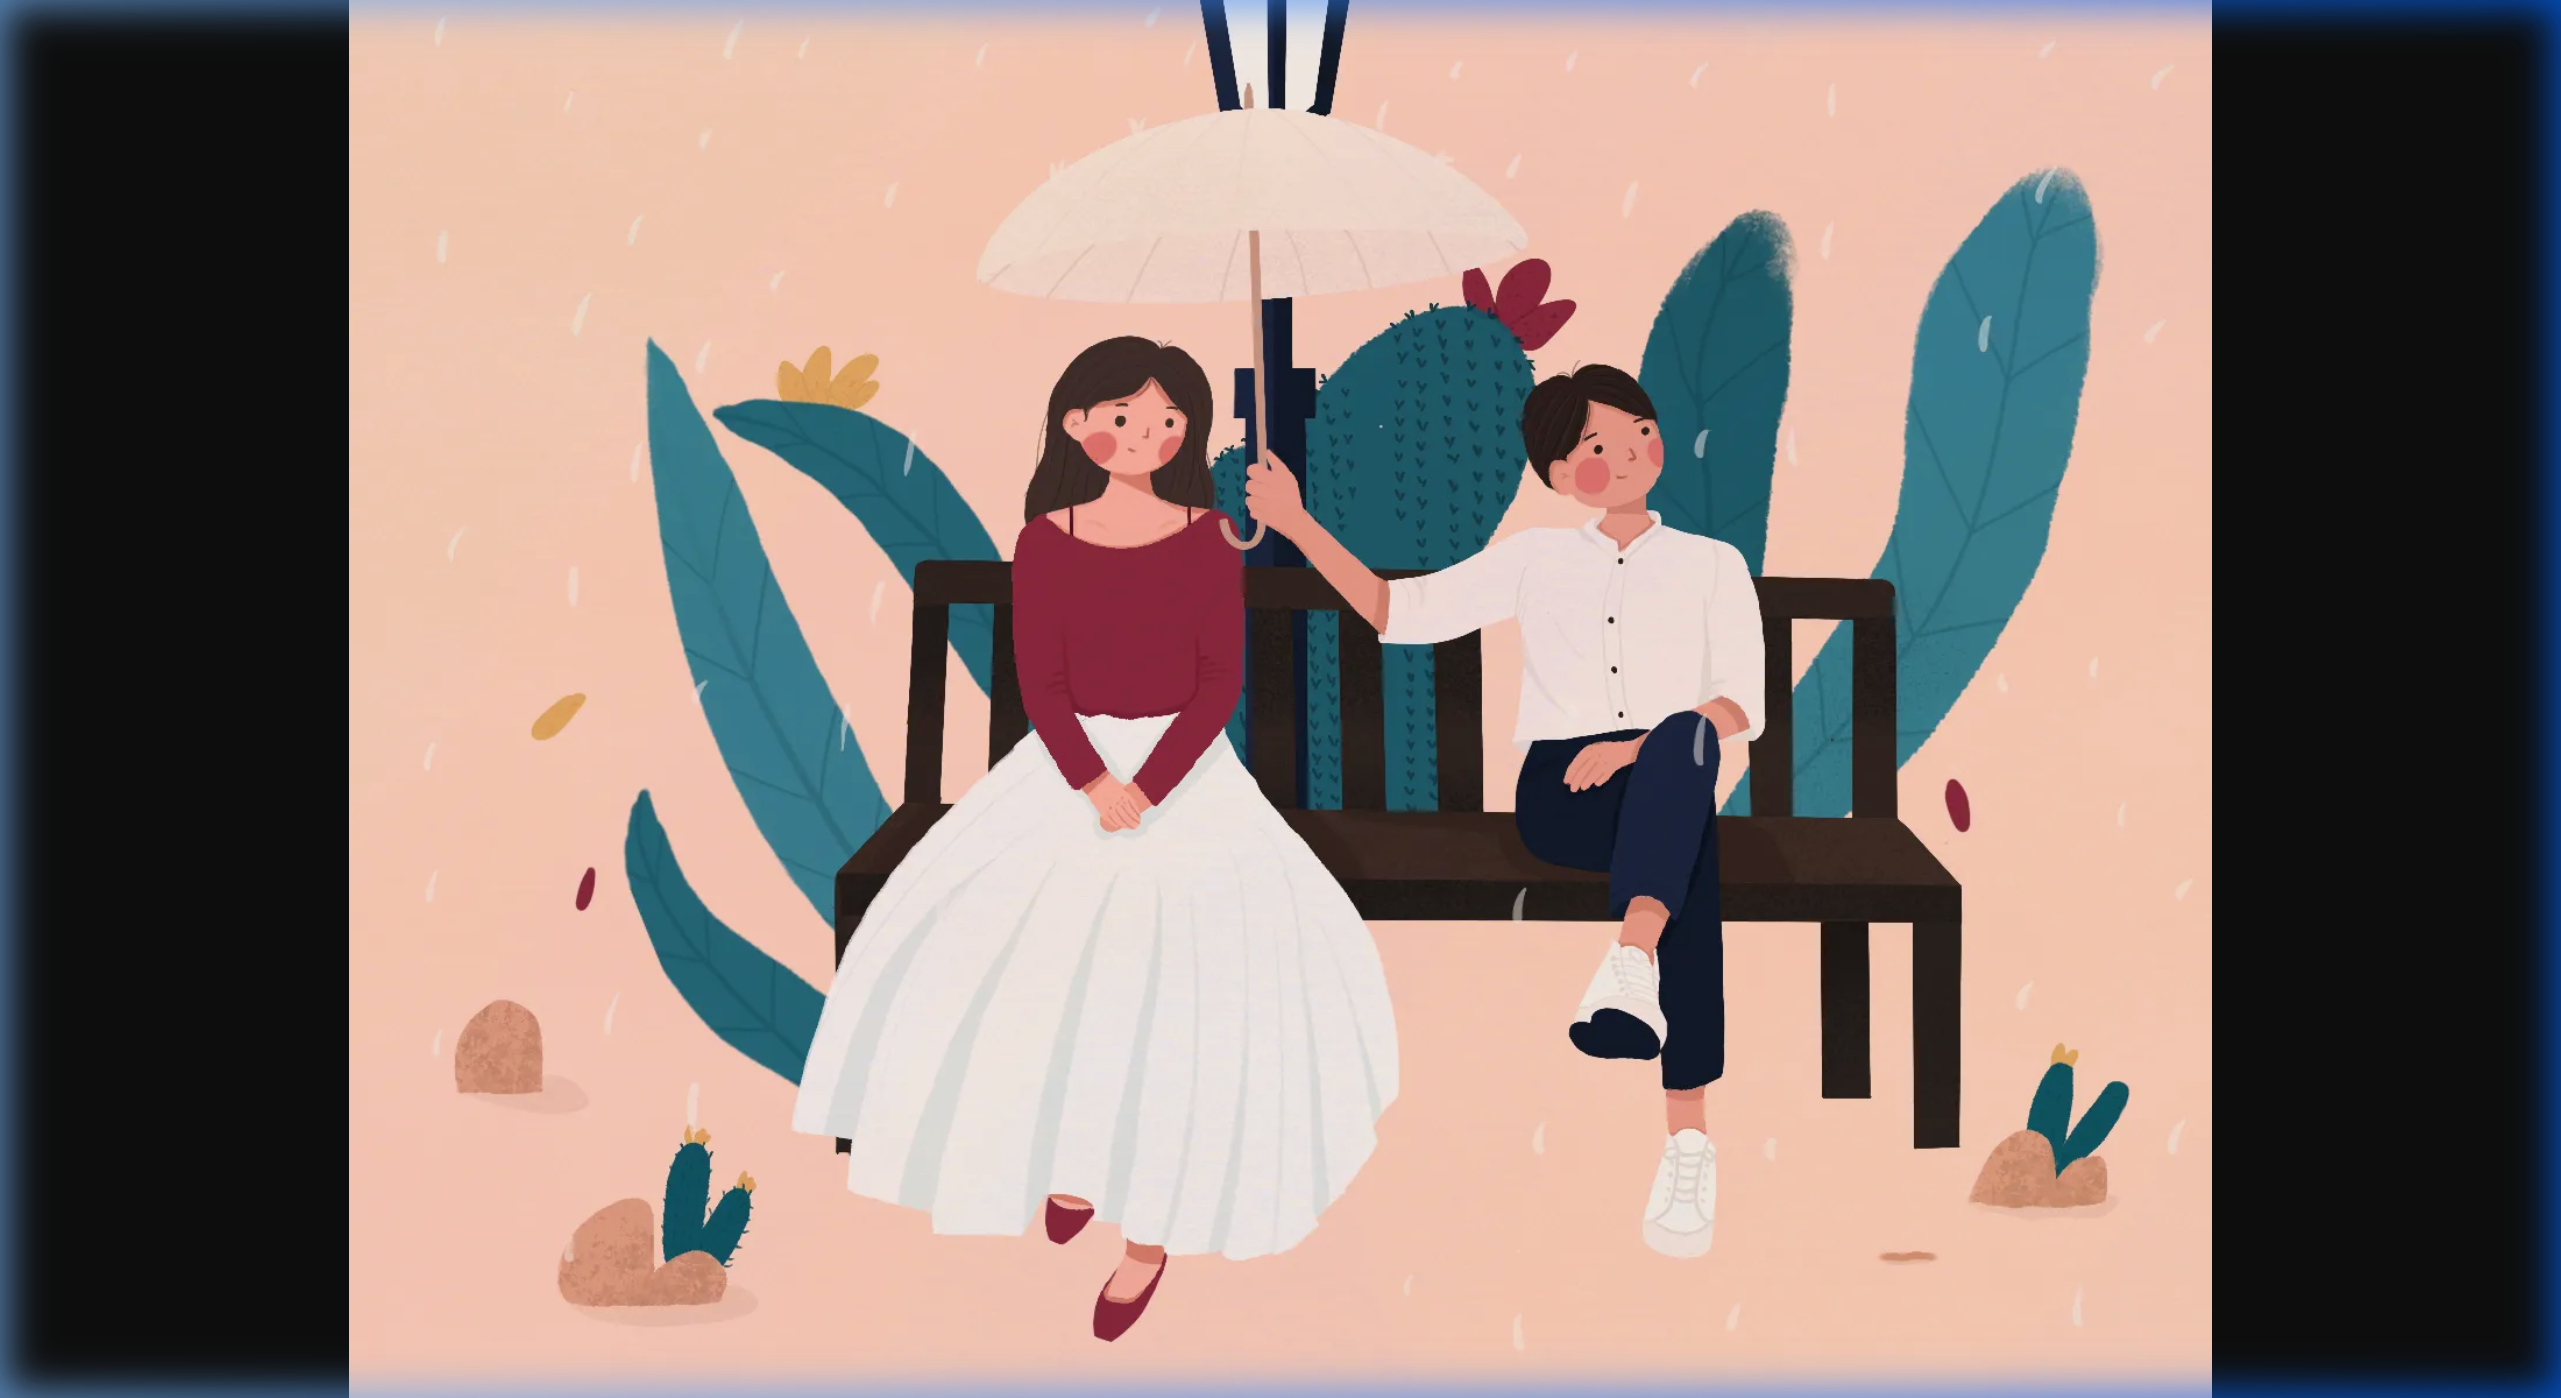
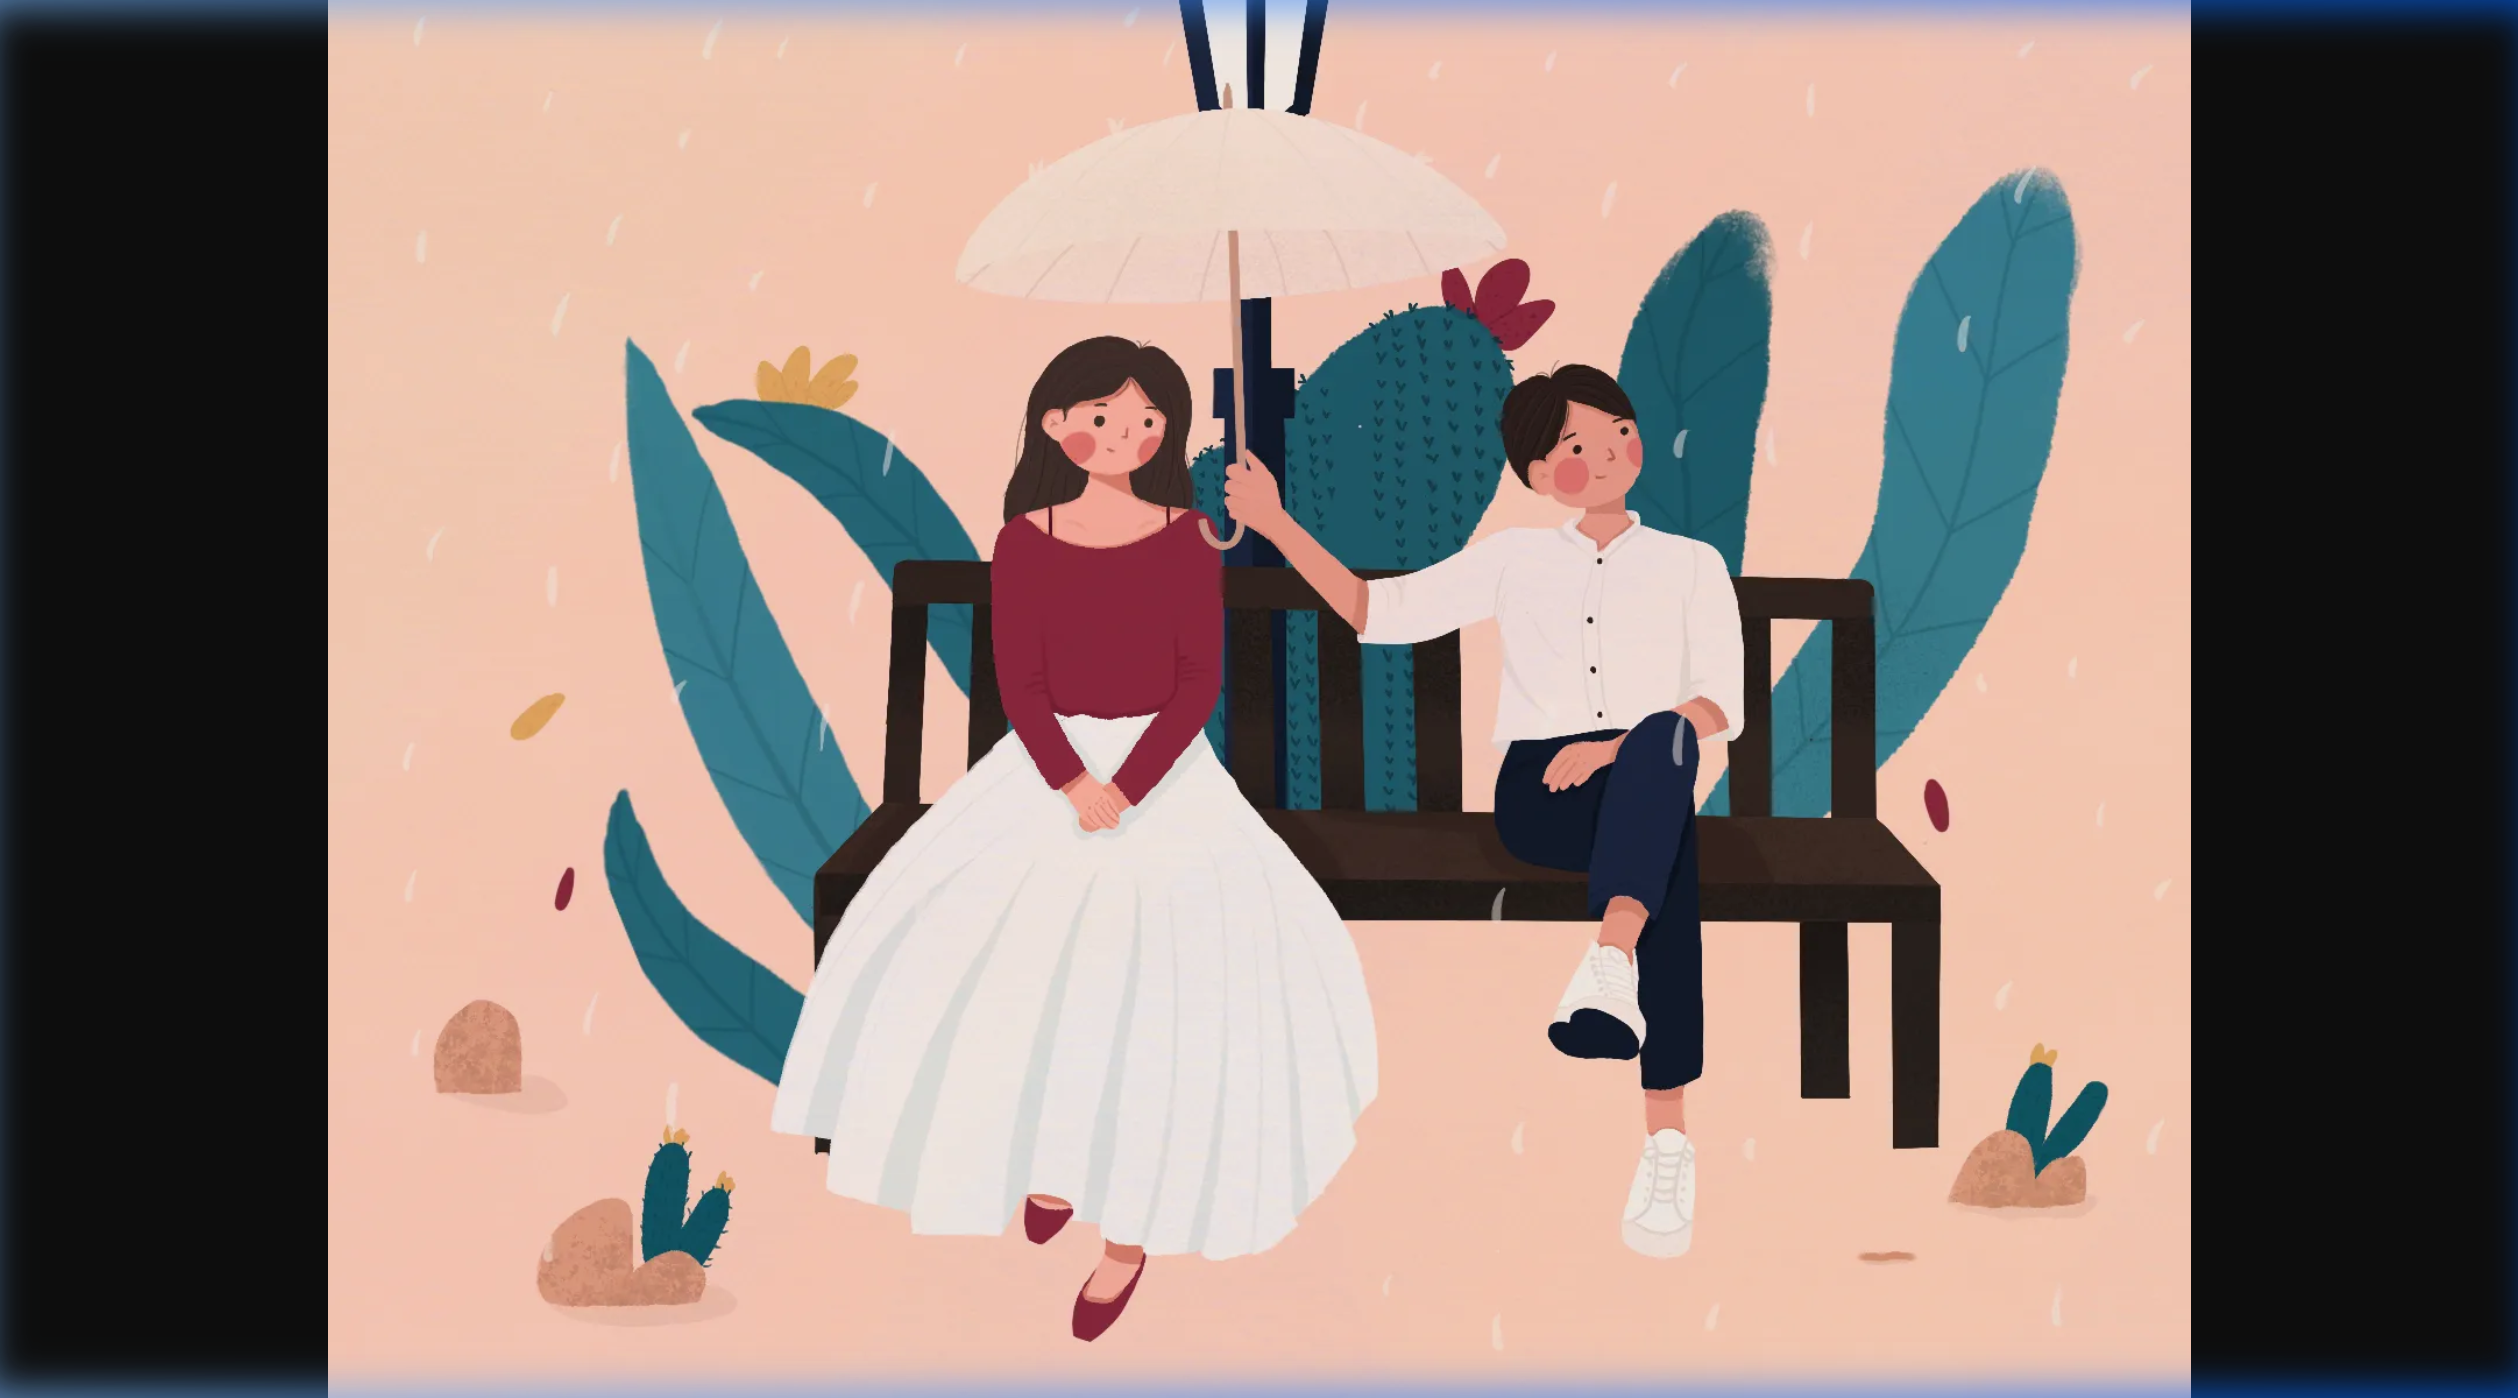
feat: Implement chat page UI with a dynamic sidebar, add homepage styling, and include background illustrations.

diff --git a/springai-front-react/src/components/Sidebar/ChatSidebar.jsx b/springai-front-react/src/components/Sidebar/ChatSidebar.jsx
@@ -1,7 +1,23 @@
 import React from 'react';
 import { Plus, ChevronLeft, ChevronRight, Heart } from 'lucide-react';
+import { motion } from 'framer-motion';
 import ChatSidebarItem from './ChatSidebarItem';
 import styles from './ChatSidebar.module.css';
+
+const listVariants = {
+    hidden: { opacity: 0 },
+    visible: {
+        opacity: 1,
+        transition: {
+            staggerChildren: 0.06
+        }
+    }
+};
+
+const itemVariants = {
+    hidden: { opacity: 0, x: -10 },
+    visible: { opacity: 1, x: 0 }
+};
 
 const ChatSidebar = ({
     isOpen,
@@ -48,17 +64,23 @@ const ChatSidebar = ({
             </div>
 
             {/* Chat List */}
-            <div className={styles.list}>
+            <motion.div 
+                className={styles.list}
+                variants={listVariants}
+                initial="hidden"
+                animate="visible"
+            >
                 {chatList.map(chat => (
-                    <ChatSidebarItem
-                        key={chat.id}
-                        chat={chat}
-                        isActive={currentChatId === chat.id}
-                        onSelect={onSelectChat}
-                        onDelete={onDeleteChat}
-                    />
+                    <motion.div key={chat.id} variants={itemVariants}>
+                        <ChatSidebarItem
+                            chat={chat}
+                            isActive={currentChatId === chat.id}
+                            onSelect={onSelectChat}
+                            onDelete={onDeleteChat}
+                        />
+                    </motion.div>
                 ))}
-            </div>
+            </motion.div>
 
             {/* Footer */}
             <div className={styles.footer}>

diff --git a/springai-front-react/src/pages/Home/HomePage.module.css b/springai-front-react/src/pages/Home/HomePage.module.css
@@ -7,15 +7,23 @@
 .page {
     width: 100vw;
     min-height: 100vh;
-    background-image: url('../../assets/illustrations/bg-home.png');
-    background-size: cover;
-    background-position: center;
-    background-attachment: fixed;
-    background-repeat: no-repeat;
-    background-color: var(--bg-base);
     padding: 48px 24px;
     font-family: var(--font-body, 'Inter', 'Noto Sans SC', sans-serif);
     overflow-x: hidden;
+    position: relative;
+    z-index: 1;
+}
+
+.page::before {
+    content: "";
+    position: fixed;
+    top: 0; left: 0; right: 0; bottom: 0;
+    z-index: -1;
+    background-image: url('../../assets/illustrations/bg-home.png');
+    background-size: cover;
+    background-position: center;
+    background-color: var(--bg-base);
+    pointer-events: none;
 }
 
 .inner {

diff --git a/springai-front-react/src/pages/Chat/ChatPage.module.css b/springai-front-react/src/pages/Chat/ChatPage.module.css
@@ -9,12 +9,19 @@
     overflow: hidden;
     color: var(--text-primary);
     isolation: isolate;
+    z-index: 1;
+}
+
+.page::before {
+    content: "";
+    position: fixed;
+    top: 0; left: 0; right: 0; bottom: 0;
+    z-index: -1;
     background-image: url('../../assets/illustrations/bg-chat.png');
     background-size: cover;
     background-position: center;
-    background-attachment: fixed;
-    background-repeat: no-repeat;
     background-color: var(--bg-base);
+    pointer-events: none;
 }
 
 .sidebarSlot {

diff --git a/springai-front-react/crop_borders.py b/springai-front-react/crop_borders.py
@@ -1,0 +1,41 @@
+import os
+import sys
+from PIL import Image, ImageChops
+
+def trim_borders(image_path):
+    print(f"Processing {image_path}...")
+    try:
+        img = Image.open(image_path).convert("RGB")
+        
+        # We need to find the bounding box of the non-border content.
+        # Since the border is likely pure black or near-black, we create a background 
+        # image of the top-left corner color and find the difference.
+        corner_color = img.getpixel((0, 0))
+        bg = Image.new(img.mode, img.size, corner_color)
+        diff = ImageChops.difference(img, bg)
+        # Add a little tolerance for JPEG artifacts if any
+        diff = ImageChops.add(diff, diff, 2.0, -100)
+        
+        bbox = diff.getbbox()
+        if bbox:
+            print(f"Original size: {img.size}, Bounding box: {bbox}")
+            # Ensure we are not cropping almost nothing
+            if bbox[0] > 10 or bbox[1] > 10 or bbox[2] < img.size[0] - 10 or bbox[3] < img.size[1] - 10:
+                cropped = img.crop(bbox)
+                cropped.save(image_path)
+                print(f"Successfully cropped and saved {image_path}. New size: {cropped.size}")
+            else:
+                print(f"Borders are too small to crop ({bbox}). Skipping.")
+        else:
+            print("Could not find a valid bounding box. Maybe the image is entirely one color?")
+            
+    except Exception as e:
+        print(f"Error processing {image_path}: {e}")
+
+if __name__ == "__main__":
+    base_dir = r"d:\JavaCode\Lovemaster\springai-front-react\src\assets\illustrations"
+    img1 = os.path.join(base_dir, "bg-home.png")
+    img2 = os.path.join(base_dir, "bg-chat.png")
+    
+    trim_borders(img1)
+    trim_borders(img2)
